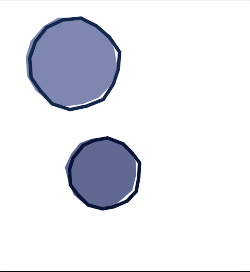
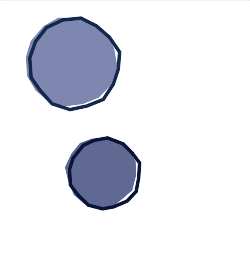
fixed image size

diff --git a/tut/tut-xmgk-77.html b/tut/tut-xmgk-77.html
@@ -26,7 +26,7 @@ table, tr, td { border:0px; }
 <body>
 <h1>xmgk - tutorial - for_circle</h1>
 
-<img src='./ressources/img-107.gif' style='border:1px solid #11d;' />
+<img src='./ressources/img-107a.2.png' style='border:1px solid #11d;' />
 <img src='./ressources/img-107a.1.png' style='border:1px solid #11d;' />
 
 <!--
